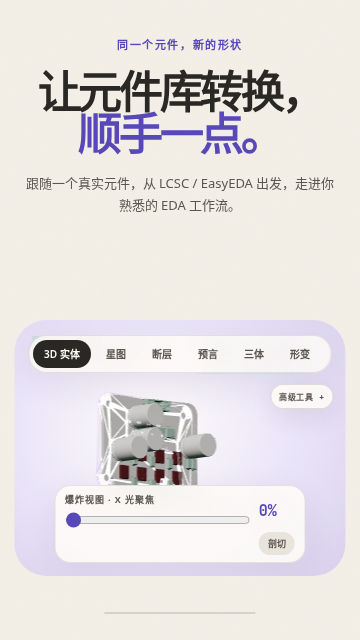
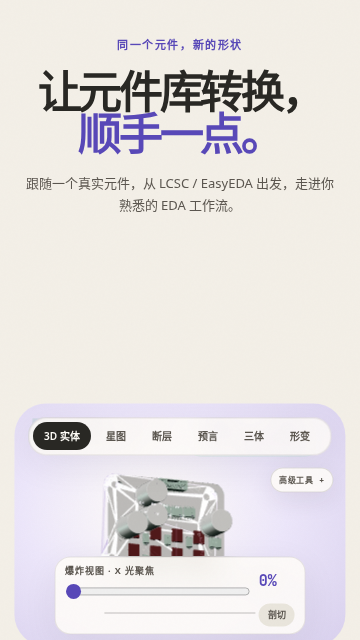
Prevent short-screen Lab story overlap

diff --git a/src/css/motion-narrative.css b/src/css/motion-narrative.css
@@ -394,9 +394,13 @@ body:has(.motion-narrative) .hero,body:has(.motion-narrative) .marquee,body:has(
 }
 
 @media (max-width: 760px) and (max-height: 700px) and (prefers-reduced-motion: no-preference) {
+  .motion-chapter {
+    top: 2%;
+  }
+
   .motion-model {
-    top: 70%;
-    height: 40svh;
+    top: 82%;
+    height: 38svh;
   }
 }
 

diff --git a/OPTIMIZATION_LOG_en.md b/OPTIMIZATION_LOG_en.md
@@ -535,5 +535,5 @@
 
 ## 2026-10-14 — Increase the mobile 3D Lab model's visible area
 - **Issue:** On narrow screens, scroll-driven rotation could leave the model edge-on; fitting the camera to a sphere that included helper-scene objects and a short mobile stage reduced geometric legibility.
-- **Change:** Fit the camera to the actual model geometry, limit narrow-screen narrative rotation to a half-turn, and increase the stage to `42svh` at 390px and `40svh` on short screens while preserving control and chapter spacing.
-- **Validation:** Add bilingual stage-size regression at `390×844` and `360×640`; the build and eight focused browser checks pass; the full browser suite reports 190 passed and 4 skipped, and scrolling screenshots were reviewed at both phone sizes.
+- **Change:** Fit the camera to the actual model geometry, limit narrow-screen narrative rotation to a half-turn, and increase the stage to `42svh` at 390px and `38svh` on short screens while moving chapter copy up to prevent overlap.
+- **Validation:** Add bilingual stage-size regression at `390×844` and `360×640`. The first PR CI run exposed a short-screen overlap between the chapter and model stage; move the short-screen stage lower and pass the overlap regression. The full browser suite reports 190 passed and 4 skipped; build, static validation, and scrolling screenshots at both phone sizes were reviewed.

diff --git a/OPTIMIZATION_LOG.md b/OPTIMIZATION_LOG.md
@@ -535,5 +535,5 @@
 
 ## 2026-10-14 — 提升移动端 3D Lab 模型可视面积
 - 问题：窄屏滚动叙事可能让模型长时间呈现侧影；相机按包含辅助场景对象的包围球取景，且手机展示区偏矮，削弱真实几何的可读性。
-- 调整：相机统一按实际模型几何包围球取景；窄屏滚动旋转限制为半圈；390px 视口展示区增至 `42svh`，短屏增至 `40svh`，同时保留控件和章节间距。
-- 验证：增加中英文 `390×844` 与 `360×640` 展示区尺寸回归；构建、8 项相关浏览器测试通过；完整浏览器回归 190 项通过、4 项跳过，并检查两种手机尺寸的滚动视觉截图。
+- 调整：相机统一按实际模型几何包围球取景；窄屏滚动旋转限制为半圈；390px 视口展示区增至 `42svh`，短屏为 `38svh` 并上移章节文案，避免重叠且保留模型空间。
+- 验证：增加中英文 `390×844` 与 `360×640` 展示区尺寸回归；PR CI 首轮发现短屏章节与模型舞台重叠，已将短屏舞台下移并通过重叠回归。完整浏览器回归 190 项通过、4 项跳过；构建、静态校验和两种手机尺寸的滚动视觉截图均已复核。
